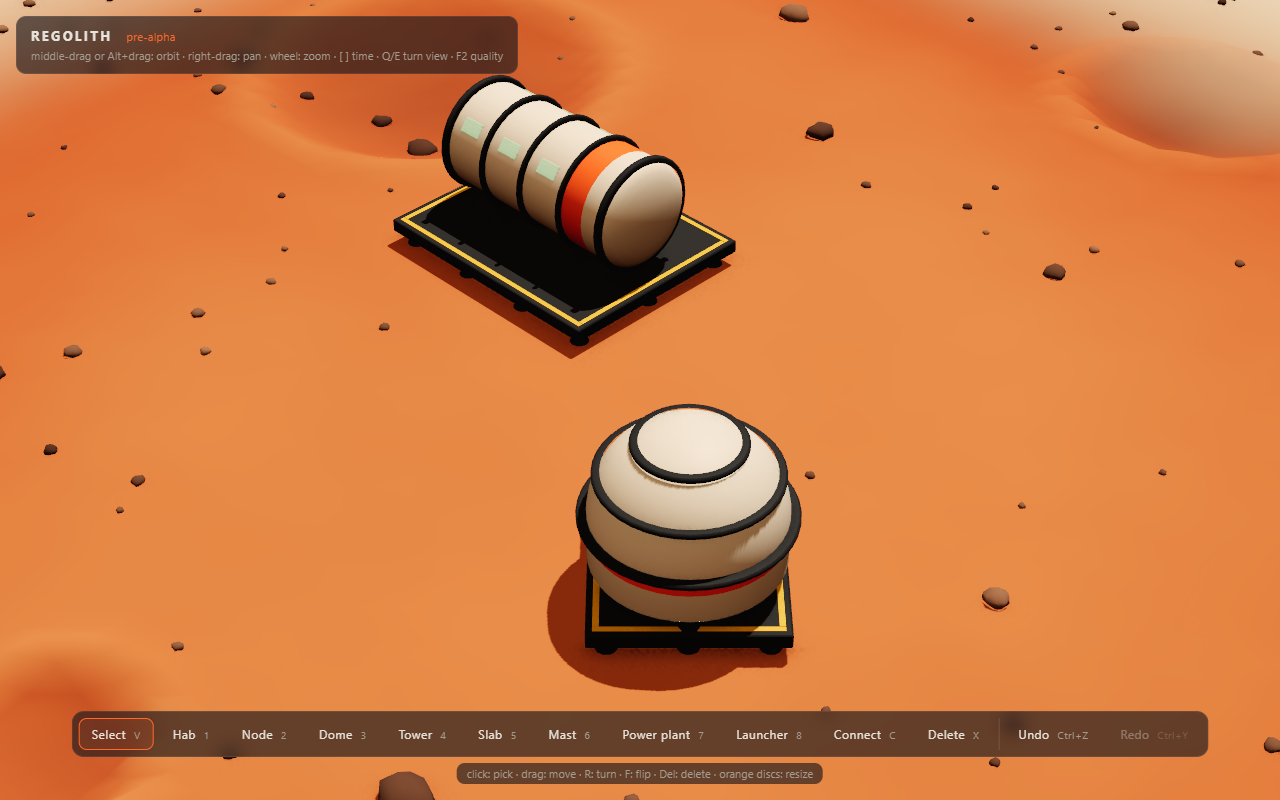
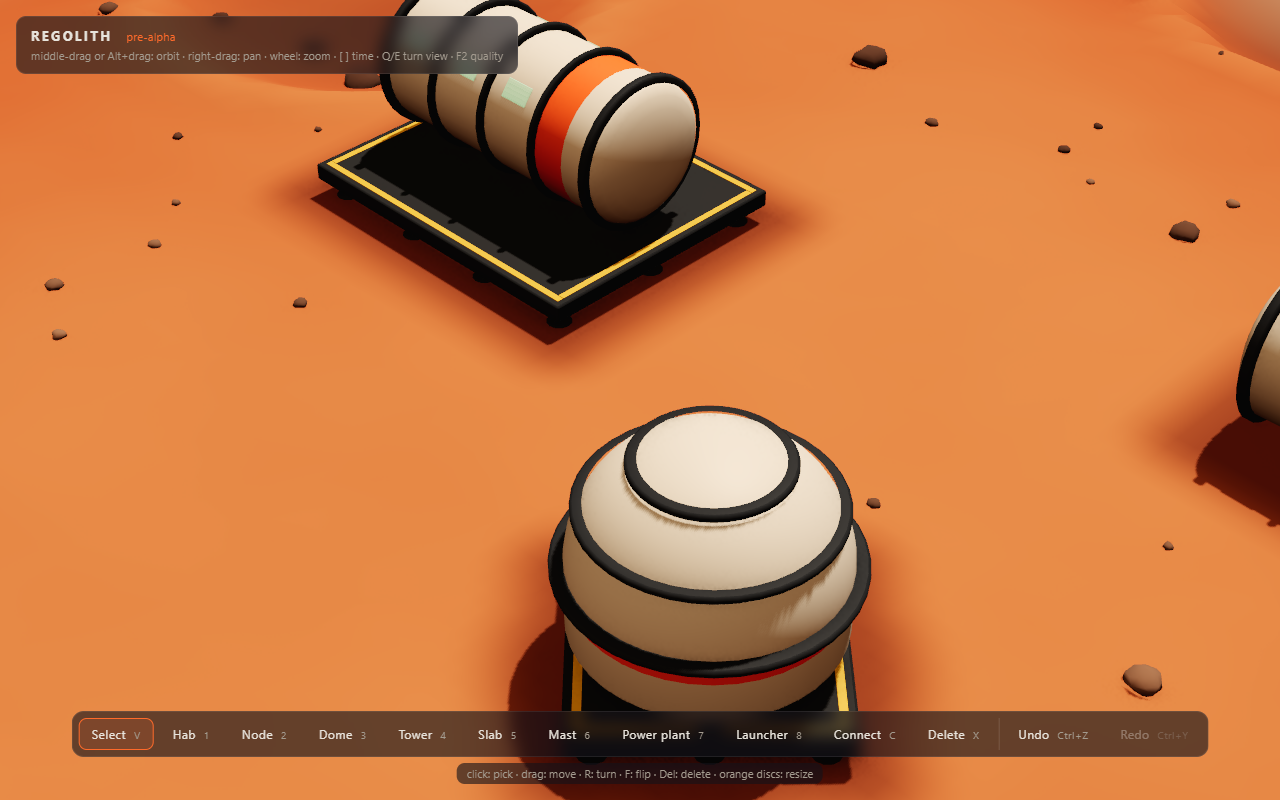
feat: worn ring around footprints and footpads, a 2-channel wear texture in the regolith shader

diff --git a/src/render/shader-patches.ts b/src/render/shader-patches.ts
@@ -2,7 +2,17 @@
  * The few `onBeforeCompile` patches the look needs, in one place
  * (ARCHITECTURE §6.4). Everything else uses stock three materials.
  */
-import { Color, type MeshStandardMaterial } from 'three';
+import {
+  ClampToEdgeWrapping,
+  Color,
+  DataTexture,
+  LinearFilter,
+  NoColorSpace,
+  RGFormat,
+  UnsignedByteType,
+  type MeshStandardMaterial,
+} from 'three';
+import { WEAR_CHANNELS, type WearField } from '@/world/wear';
 
 /** Shared with Lighting, which sets the colour to the sky's horizon each frame. */
 export const edgeFade = {
@@ -12,31 +22,84 @@ export const edgeFade = {
   end: { value: 47 },
 };
 
+/** How far the regolith darkens at full wear (the rest of the dark tint is never needed). */
+const WEAR_MIX = 0.9;
+
 /**
- * Terrain dissolves into the horizon colour toward the map edge, so the edge of the
- * world is haze, not a cliff against the sky. The sky dome draws the same colour at the
- * horizon, so the two meet seamlessly.
+ * The wear raster (world/wear.ts) as a texture the regolith shader reads. Starts clear; `update`
+ * swaps the bytes in when the base's wear changed.
  */
-export function patchEdgeFade(material: MeshStandardMaterial): void {
+export const wearMap = {
+  texture: new DataTexture(new Uint8Array(WEAR_CHANNELS), 1, 1, RGFormat, UnsignedByteType),
+  half: { value: 48 },
+  color: { value: new Color('#7a3a1e') },
+  key: '',
+  update(field: WearField, half: number): void {
+    if (field.key === this.key) return;
+    this.key = field.key;
+    this.texture.dispose();
+    this.texture = new DataTexture(field.data, field.size, field.size, RGFormat, UnsignedByteType);
+    this.texture.minFilter = LinearFilter;
+    this.texture.magFilter = LinearFilter;
+    this.texture.generateMipmaps = false;
+    this.texture.wrapS = ClampToEdgeWrapping;
+    this.texture.wrapT = ClampToEdgeWrapping;
+    this.texture.colorSpace = NoColorSpace;
+    this.texture.needsUpdate = true;
+    this.half.value = half;
+    this.sampler.value = this.texture;
+  },
+  sampler: { value: null as DataTexture | null },
+};
+wearMap.sampler.value = wearMap.texture;
+
+function must(source: string, anchor: string, withText: string): string {
+  if (!source.includes(anchor)) throw new Error(`shader patch anchor missing: ${anchor}`);
+  return source.replace(anchor, withText);
+}
+
+/**
+ * The regolith's two patches, in one `onBeforeCompile` (a second assignment would replace the first):
+ *
+ * - Terrain dissolves into the horizon colour toward the map edge, so the edge of the world is
+ *   haze, not a cliff against the sky. The sky dome draws the same colour at the horizon.
+ * - Wear darkens the regolith where parts and footpads have disturbed it, read from `wearMap` by
+ *   world XZ. Channel G is reserved for M4's paths.
+ */
+export function patchRegolith(material: MeshStandardMaterial, color: string): void {
+  wearMap.color.value.set(color);
   material.onBeforeCompile = (shader) => {
     shader.uniforms['uEdgeColor'] = edgeFade.color;
     shader.uniforms['uEdgeStart'] = edgeFade.start;
     shader.uniforms['uEdgeEnd'] = edgeFade.end;
-    shader.vertexShader = shader.vertexShader
-      .replace('#include <common>', '#include <common>\nvarying vec2 vEdgeXZ;')
-      .replace(
-        '#include <begin_vertex>',
-        '#include <begin_vertex>\nvEdgeXZ = (modelMatrix * vec4(transformed, 1.0)).xz;',
-      );
-    shader.fragmentShader = shader.fragmentShader
-      .replace(
-        '#include <common>',
-        '#include <common>\nvarying vec2 vEdgeXZ;\nuniform vec3 uEdgeColor;\nuniform float uEdgeStart;\nuniform float uEdgeEnd;',
-      )
-      .replace(
-        '#include <opaque_fragment>',
-        'outgoingLight = mix(outgoingLight, uEdgeColor, smoothstep(uEdgeStart, uEdgeEnd, max(abs(vEdgeXZ.x), abs(vEdgeXZ.y))));\n#include <opaque_fragment>',
-      );
+    shader.uniforms['uWear'] = wearMap.sampler;
+    shader.uniforms['uWearHalf'] = wearMap.half;
+    shader.uniforms['uWearColor'] = wearMap.color;
+    shader.vertexShader = must(
+      shader.vertexShader,
+      '#include <common>',
+      '#include <common>\nvarying vec2 vEdgeXZ;',
+    );
+    shader.vertexShader = must(
+      shader.vertexShader,
+      '#include <begin_vertex>',
+      '#include <begin_vertex>\nvEdgeXZ = (modelMatrix * vec4(transformed, 1.0)).xz;',
+    );
+    shader.fragmentShader = must(
+      shader.fragmentShader,
+      '#include <common>',
+      '#include <common>\nvarying vec2 vEdgeXZ;\nuniform vec3 uEdgeColor;\nuniform float uEdgeStart;\nuniform float uEdgeEnd;\nuniform sampler2D uWear;\nuniform float uWearHalf;\nuniform vec3 uWearColor;',
+    );
+    shader.fragmentShader = must(
+      shader.fragmentShader,
+      '#include <color_fragment>',
+      `#include <color_fragment>\ndiffuseColor.rgb = mix(diffuseColor.rgb, uWearColor, texture2D(uWear, (vEdgeXZ + uWearHalf) / (2.0 * uWearHalf)).r * ${WEAR_MIX.toFixed(2)});`,
+    );
+    shader.fragmentShader = must(
+      shader.fragmentShader,
+      '#include <opaque_fragment>',
+      'outgoingLight = mix(outgoingLight, uEdgeColor, smoothstep(uEdgeStart, uEdgeEnd, max(abs(vEdgeXZ.x), abs(vEdgeXZ.y))));\n#include <opaque_fragment>',
+    );
   };
-  material.customProgramCacheKey = () => 'edge-fade';
+  material.customProgramCacheKey = () => 'regolith-edge-wear';
 }

diff --git a/src/world/wear.ts b/src/world/wear.ts
@@ -1,0 +1,78 @@
+/**
+ * Ground around contact, wear: a 2-channel byte raster over the whole map that darkens the
+ * regolith where parts and footpads have disturbed it. Pure data in, bytes out; the render layer
+ * uploads the bytes as a texture and the regolith shader reads it.
+ *
+ * Channel 0 is the disturbed-regolith ring around footprints and footpads. Channel 1 is reserved
+ * for M4's worn paths. Texel (i, j) is centred at `(-half + (i + 0.5) / TEXELS_PER_M, ...)` and the
+ * texture is read with linear filtering, so wear is a soft stain, never a hard edge.
+ */
+import { distanceToShape, type FlatShape } from './flatten';
+
+export const WEAR_TEXELS_PER_M = 2;
+export const WEAR_CHANNELS = 2;
+/** Metres past a footprint over which the ring fades out. */
+export const WEAR_RING = 2.2;
+/** Metres past a footpad's rim over which its mark fades out. */
+export const WEAR_FOOT_RING = 0.9;
+
+export interface WearField {
+  /** texels along each side */
+  size: number;
+  /** `size * size * WEAR_CHANNELS` bytes, row `j` (z) major */
+  data: Uint8Array;
+  /** changes whenever the bytes do */
+  key: string;
+}
+
+const fade = (d: number, ring: number): number => {
+  const t = 1 - Math.min(1, Math.max(0, d / ring));
+  return t * t * (3 - 2 * t);
+};
+
+const r3 = (v: number): number => Math.round(v * 1000) / 1000;
+
+export function buildWear(
+  half: number,
+  footprints: readonly FlatShape[],
+  footpads: readonly { x: number; z: number; r: number }[],
+): WearField {
+  const size = Math.round(2 * half * WEAR_TEXELS_PER_M);
+  const data = new Uint8Array(size * size * WEAR_CHANNELS);
+
+  const stamp = (
+    cx: number,
+    cz: number,
+    reach: number,
+    strength: (x: number, z: number) => number,
+  ): void => {
+    const i0 = Math.max(0, Math.floor((cx - reach + half) * WEAR_TEXELS_PER_M));
+    const i1 = Math.min(size - 1, Math.ceil((cx + reach + half) * WEAR_TEXELS_PER_M));
+    const j0 = Math.max(0, Math.floor((cz - reach + half) * WEAR_TEXELS_PER_M));
+    const j1 = Math.min(size - 1, Math.ceil((cz + reach + half) * WEAR_TEXELS_PER_M));
+    for (let j = j0; j <= j1; j++) {
+      for (let i = i0; i <= i1; i++) {
+        const x = -half + (i + 0.5) / WEAR_TEXELS_PER_M;
+        const z = -half + (j + 0.5) / WEAR_TEXELS_PER_M;
+        const v = Math.round(strength(x, z) * 255);
+        const o = (j * size + i) * WEAR_CHANNELS;
+        if (v > (data[o] ?? 0)) data[o] = v;
+      }
+    }
+  };
+
+  for (const s of footprints) {
+    const reach = (s.kind === 'disc' ? s.r : Math.hypot(s.hx, s.hz)) + WEAR_RING;
+    stamp(s.x, s.z, reach, (x, z) => fade(distanceToShape(s, x, z), WEAR_RING));
+  }
+  for (const f of footpads) {
+    stamp(f.x, f.z, f.r + WEAR_FOOT_RING, (x, z) =>
+      fade(Math.max(0, Math.hypot(x - f.x, z - f.z) - f.r), WEAR_FOOT_RING),
+    );
+  }
+
+  // A cheap, order-stable digest of the bytes: FNV-1a.
+  let h = 2166136261;
+  for (let i = 0; i < data.length; i++) h = Math.imul(h ^ (data[i] ?? 0), 16777619) >>> 0;
+  return { size, data, key: `${size}:${h.toString(16)}:${r3(half)}` };
+}

diff --git a/src/world/wear.test.ts b/src/world/wear.test.ts
@@ -1,0 +1,53 @@
+import { describe, expect, it } from 'vitest';
+import { buildWear, WEAR_CHANNELS, WEAR_RING, WEAR_TEXELS_PER_M } from './wear';
+
+const HALF = 48;
+const at = (w: ReturnType<typeof buildWear>, x: number, z: number, channel = 0): number => {
+  const i = Math.floor((x + HALF) * WEAR_TEXELS_PER_M);
+  const j = Math.floor((z + HALF) * WEAR_TEXELS_PER_M);
+  return w.data[(j * w.size + i) * WEAR_CHANNELS + channel] ?? 0;
+};
+
+describe('buildWear', () => {
+  it('is all zero for an empty base, at 2 texels per metre', () => {
+    const w = buildWear(HALF, [], []);
+    expect(w.size).toBe(2 * HALF * WEAR_TEXELS_PER_M);
+    expect(w.data.length).toBe(w.size * w.size * WEAR_CHANNELS);
+    expect(w.data.every((v) => v === 0)).toBe(true);
+  });
+
+  it('rings a footprint: full under it, falling to nothing past the ring, channel G untouched', () => {
+    const w = buildWear(HALF, [{ kind: 'rect', x: 0, z: 0, yaw: 0, hx: 4, hz: 3 }], []);
+    expect(at(w, 0, 0)).toBe(255);
+    let last = 255;
+    for (let d = 0.25; d <= WEAR_RING + 1; d += 0.25) {
+      const v = at(w, 4 + d, 0);
+      expect(v).toBeLessThanOrEqual(last);
+      last = v;
+    }
+    expect(last).toBe(0);
+    expect(at(w, 20, 20)).toBe(0);
+    expect(w.data.filter((_, i) => i % WEAR_CHANNELS === 1).every((v) => v === 0)).toBe(true);
+  });
+
+  it('marks a footpad softly and keeps the stronger mark where they overlap', () => {
+    const w = buildWear(HALF, [], [{ x: 10, z: 10, r: 0.35 }]);
+    expect(at(w, 10, 10)).toBeGreaterThan(200);
+    expect(at(w, 12, 10)).toBe(0);
+    const both = buildWear(
+      HALF,
+      [{ kind: 'disc', x: 10, z: 10, r: 2 }],
+      [{ x: 10, z: 10, r: 0.35 }],
+    );
+    expect(at(both, 10, 10)).toBe(255);
+  });
+
+  it('is the same bytes and key for the same input, and a new key when it changes', () => {
+    const shapes = [{ kind: 'disc' as const, x: -5, z: 7, r: 3 }];
+    const a = buildWear(HALF, shapes, []);
+    const b = buildWear(HALF, shapes, []);
+    expect(a.key).toBe(b.key);
+    expect(Array.from(a.data)).toEqual(Array.from(b.data));
+    expect(buildWear(HALF, [{ kind: 'disc', x: -4, z: 7, r: 3 }], []).key).not.toBe(a.key);
+  });
+});

diff --git a/src/editor/app.ts b/src/editor/app.ts
@@ -25,8 +25,10 @@ import { CameraRig } from '@/render/camera-rig';
 import { Lighting } from '@/render/lighting';
 import { parseQuality, PostChain } from '@/render/post';
 import { GRID } from '@/geometry/design-constants';
+import { wearOf } from '@/grammar/solver/wear';
 import { ScatterSync } from '@/render/scatter-sync';
 import { SceneSync } from '@/render/scene-sync';
+import { wearMap } from '@/render/shader-patches';
 import { buildTerrainMesh, levelTerrainMesh } from '@/render/terrain-mesh';
 import { createDocument, keepMirror, type PartId } from '@/world/document';
 import { raycastTerrain, type Ray } from '@/world/raycast';
@@ -119,6 +121,8 @@ export function startApp(canvas: HTMLCanvasElement): void {
       terrainKey = key;
       levelTerrainMesh(terrainMesh, groundAt());
     }
+    // Disturbed ground around footprints and footpads; the texture is only re-sent when it changed.
+    wearMap.update(wearOf(resolved, world.halfSize), world.halfSize);
     // Rocks yield to the base but stay put while a part is being dragged (SCATTER §4).
     if (!movingId) scatter.update(rocks, resolved.keepOut, gridSize, resolved.terrain);
     fitShadowToBase();
@@ -469,6 +473,7 @@ export function startApp(canvas: HTMLCanvasElement): void {
       cmd,
       renderer,
       post,
+      wear: wearMap,
       base: () => resolved,
       setHour: (h: number) => {
         hour = h;

diff --git a/src/grammar/solver/wear.ts b/src/grammar/solver/wear.ts
@@ -1,0 +1,28 @@
+/**
+ * Wear sources of a resolved base: every part footprint and every
+ * footpad, in world XZ. Feeds `world/wear.ts`; kept here because it reads the solver's output.
+ */
+import type { FlatShape } from '@/world/flatten';
+import { buildWear, type WearField } from '@/world/wear';
+import { FOOT_RADIUS } from '@/geometry/design-constants';
+import type { ResolvedBase } from './types';
+
+export function wearOf(base: ResolvedBase, half: number): WearField {
+  const footprints: FlatShape[] = [];
+  const footpads: { x: number; z: number; r: number }[] = [];
+  for (const part of base.parts.values()) {
+    const { footprint: fp, pose } = part;
+    footprints.push(
+      fp.kind === 'rect'
+        ? { kind: 'rect', x: pose.x, z: pose.z, yaw: pose.yaw, hx: fp.hx, hz: fp.hz }
+        : { kind: 'disc', x: pose.x, z: pose.z, r: fp.r },
+    );
+    for (const leg of part.legs)
+      footpads.push({ x: leg.bottom[0], z: leg.bottom[2], r: FOOT_RADIUS });
+  }
+  for (const tube of base.tubes.values()) {
+    for (const leg of tube.legs)
+      footpads.push({ x: leg.bottom[0], z: leg.bottom[2], r: FOOT_RADIUS });
+  }
+  return buildWear(half, footprints, footpads);
+}

diff --git a/src/render/materials.ts b/src/render/materials.ts
@@ -4,7 +4,7 @@
  */
 import { Color, DoubleSide, MeshStandardMaterial } from 'three';
 import type { MaterialName } from '@/geometry/bundle';
-import { patchEdgeFade } from './shader-patches';
+import { patchRegolith } from './shader-patches';
 
 export const PALETTE = {
   regolith: '#b5582f',
@@ -94,7 +94,7 @@ export const materials = {
   }),
 };
 
-patchEdgeFade(materials.regolith);
+patchRegolith(materials.regolith, PALETTE.regolithDark);
 
 // Compile-time check: every material name geometry/ may emit exists in the library.
 const _complete: MaterialName extends keyof typeof materials ? true : never = true;

diff --git a/docs/PLAN.md b/docs/PLAN.md
@@ -103,7 +103,7 @@ Tasks, in order (risk first; each is a commit with tests, 12:00 and 18:30 shots 
 1. **Flip (mirror). Done.** `Pose.mirror?: boolean`, `PartPose.mirror?`: mirror across the part's local Z before yaw. Footprints are symmetric, so cells and gaps are untouched. Ports negate their local z and normal.z and keep their ids, so links survive a flip and the tube re-routes. Geometry is not mirrored: SceneSync sets `body.scale.z = -1` (three flips winding), so recipe hashes and caches are shared. Decorators are placed in world space so stencils never read mirrored. Key `F` in Select and Place. Optional field, so no document version bump (rule: bump only when an old reader would misread). Tests: mirrored ports are the mirror of the originals; cells identical; every diagnose rule holds on random bases with random flips. Hazard: every `rotateY(-yaw)` call site must learn about the mirror (grep them).
 2. **Generic gizmos from the schema.** Done. `PartDefinition.handles?(params): HandleSpec[]` with `{ id, param, at, axis, perUnit, anchor }` in the part's local frame (`grammar/handles.ts`); a pure `applyHandleDelta` turns a drag distance into the next schema value and the shift that keeps the anchor (the opposite end) fixed; `editor/handle-drag.ts` adds the solver block ("if the solver would move it, do not apply"); `rayClosestOnLine` reads the pointer as a distance along the grip axis, so one drag works for a hab end, a tower top and a slab edge. Replaces the H-only grow handles; one undo step per drag. Length, radius, width, depth, floors and mast height are handles; toggles, the mast head and the launcher elevation stay in the picker. Tests: for every letter and handle, one step up or down lands on the next schema value, the anchor stays put and the grip travels `perUnit` as promised; a hab end grown at every yaw and flipped keeps its far end; growth is blocked by a neighbour.
 3. **Auto-suggest connections.** Done. Derived, never stored. `grammar/suggest.ts: suggestLinks(doc, base, part, world) → Suggestion[]` (`{ link, target, length, kinks, nodes, joinsComponents, anchor, tubes, parts }`): free tube-capable PRESS ports on other parts within the span limit that roughly face each other, nearest pairing per target part, each verified by a trial solve (the real router: no `link-skipped`, `tube-unroutable` or `tube-too-long`), detours (longer than 1.7 × the straight distance + 5 m) dropped, and a second path between parts that are already joined only if it needs no node. Ranked joining-separate-groups first, then length + 3 m per bend + 6 m per node, at most 3, one per target part. The trial solve already holds the tubes and nodes, so the preview needs no second solve. `editor/ui/suggestions.ts` shows them as translucent ghost tubes with a "Connect to H-002" pill for the selected or just-placed part, once the current event has finished and never while a part is dragged or in the Connect and Delete tools; accepting is `cmd.addLink`, so P1 holds and the next request offers what is left. Tests: a hab pair is offered end to end; used ports are not; a separate group beats a second path; nothing out of reach; and over random bases on flat and rough ground every suggestion, once accepted, adds no broken link, no invariant violation and uses its ports. Cost: a trial solve per candidate, about 5–10 ms on a normal base and 50–100 ms at 200 parts, hence deferred and capped (six targets, stop at three results).
-4. **Ground around contact.** Two derived layers, nothing stored. (a) Heights, done for slabs: `world/flatten.ts: buildFlatField(raw, shapes, grid)` levels the terrain under each slab to the mean natural height under its footprint and eases back to the natural ground over a 2 m skirt. The field lives on the 1 m terrain lattice and reads with the same bilinear rule as the natural terrain, so the mesh and every `heightAt` agree; nodes within √2 m of a footprint take the target exactly (flat under the slab and a fringe beyond), further out they blend `(raw + Σ K·target)/(1 + Σ K)` with `K = ((S−d)/(d·S))²`, which is order-free and continuous between close slabs. It runs as the `flatten` stage after `overlap` and before `ground`, so pylons, docks and tubes see the levelled ground (`ResolvedBase.terrain`); the part being dragged and the ghost are skipped and settle on commit. `render/terrain-mesh.ts: levelTerrainMesh` re-seats the vertices when the field's key changes (vertex colours stay on the natural height), picking reads `resolved.terrain`, and rocks the skirt reaches resettle in `cullScatter`. Parts on legs keep the natural terrain, as the DESIGN_GUIDE says, and get (b) instead. (b) Wear: a 2-channel data texture at 2 texels per metre sampled in the regolith shader, with a disturbed-regolith ring around footprints and footpads; the same texture carries M4's paths. Tests: terrain under a slab flat to 1 cm, skirt monotone, continuous between two close slabs, order independent, the moving slab and legged parts skipped, pylons on the levelled ground, mesh vertices on the field, rocks resettle. (b) is still to do.
+4. **Ground around contact.** Done. Two derived layers, nothing stored. (a) Heights, done for slabs: `world/flatten.ts: buildFlatField(raw, shapes, grid)` levels the terrain under each slab to the mean natural height under its footprint and eases back to the natural ground over a 2 m skirt. The field lives on the 1 m terrain lattice and reads with the same bilinear rule as the natural terrain, so the mesh and every `heightAt` agree; nodes within √2 m of a footprint take the target exactly (flat under the slab and a fringe beyond), further out they blend `(raw + Σ K·target)/(1 + Σ K)` with `K = ((S−d)/(d·S))²`, which is order-free and continuous between close slabs. It runs as the `flatten` stage after `overlap` and before `ground`, so pylons, docks and tubes see the levelled ground (`ResolvedBase.terrain`); the part being dragged and the ghost are skipped and settle on commit. `render/terrain-mesh.ts: levelTerrainMesh` re-seats the vertices when the field's key changes (vertex colours stay on the natural height), picking reads `resolved.terrain`, and rocks the skirt reaches resettle in `cullScatter`. Parts on legs keep the natural terrain, as the DESIGN_GUIDE says, and get (b) instead. (b) Wear: `world/wear.ts: buildWear(half, footprints, footpads)` rasterises a 2-channel byte map at 2 texels per metre (192 × 192): channel R is a disturbed-regolith ring (2.2 m past every footprint, 0.9 m past each footpad, smoothstep, strongest wins), channel G is reserved for M4's paths. `grammar/solver/wear.ts: wearOf(base, half)` gathers the sources; `render/shader-patches.ts` uploads the bytes as an RG8 linear-filtered texture and the one merged regolith patch mixes `regolithDark` toward 0.9 of the ring by world XZ, in the colour pass only so shadow and GTAO passes never see it. It is rebuilt when its key changes, including while a part is dragged. No new colours. Tests: terrain under a slab flat to 1 cm, skirt monotone, continuous between two close slabs, order independent, the moving slab and legged parts skipped, pylons on the levelled ground, mesh vertices on the field, rocks resettle. Wear: empty base is all zero, ring monotone and zero past its reach, footpads, same bytes for the same input.
 5. **Individuality.** Everything derived from `hashInts(serial, seedHash, slot)` in a solver decorator stage, nothing stored. Three mechanisms by resolution: per-instance attributes (tint shift, dust amount) read by one shader patch (needs task 0's batching); curved decals as thin lathe strips like the accent stripe (hazard chevron bands, patches); flat decals (stencil serial number, hatch marks) as one `InstancedMesh` per decorator kind, 4 mm proud with `polygonOffset`, glyphs no wider than 0.25 m so they do not sag off a hull. The glyph atlas is canvas-drawn at startup from a hand-coded 5×7 rectangle font, never `fillText` (OS rasterisation breaks "same input, same bytes"). Needs DESIGN_GUIDE rows for each decal and any new colour first. Test: two same-param habs differ, and hashes are stable across reloads.
 
 **Cut for now:** scuffs and wheel tracks (M5 with rovers, per SCATTER.md), flags, per-instance geometry, deforming terrain under legged parts (the wear ring only), dynamic resolution, a depth pre-pass, VSM shadows.

diff --git a/docs/ARCHITECTURE.md b/docs/ARCHITECTURE.md
@@ -171,7 +171,7 @@ Letters in the registry: H, N, D (opaque dome), V (tower), P (slab), M (mast), E
 
 Known limits:
 
-- Slabs level the ground under them (a derived field, never stored); parts on legs keep the natural terrain and get a wear ring once that layer lands. Painted terrain edits still wait for M4.
+- Slabs level the ground under them (a derived field, never stored); parts on legs keep the natural terrain and get a wear ring (`world/wear.ts`, a 2-channel texture the regolith shader reads; channel G is for M4's paths). Painted terrain edits still wait for M4.
 - Handles cover the range and choice params that are a length (H length and radius, C length, P width and depth, V floors, M height, D, E and N radius). Toggles, the mast head and the launcher's elevation are edited through the picker only.
 - `POWER` ports exist (M, E, C) but nothing connects to them until the power stage; beacons, dish tracking and fin glow are static.
 - `aluminium` is unused until the sky environment map lands (M2).

diff --git a/docs/worklog.md b/docs/worklog.md
@@ -69,3 +69,4 @@ Format: `YYYY-MM-DD HH:MM · commit · what` (local time, UTC-7). Times are when
 - 2026-10-18 00:08 · 0178b6e · Perf: one BatchedMesh per material for the whole base, legs included; 200 parts from about 3,300 draw calls to 18–46, mirrored parts draw a mirrored geometry
 - 2026-10-18 00:25 · 35c0068 · Generic drag handles from each part's schema (length, radius, width, depth, floors, height), anchored opposite end, blocked by neighbours, readout while dragging, one undo step per drag
 - 2026-10-18 00:44 · c9b5865 · Suggested connections for the placed or selected part, verified by trial solves, ghost tubes with accept pills
+- 2026-10-18 01:16 · 798af78 · Slabs level the ground under them: one terrain (flat to 1 cm, 2 m skirt) for legs, tubes, mesh, picking and rocks
